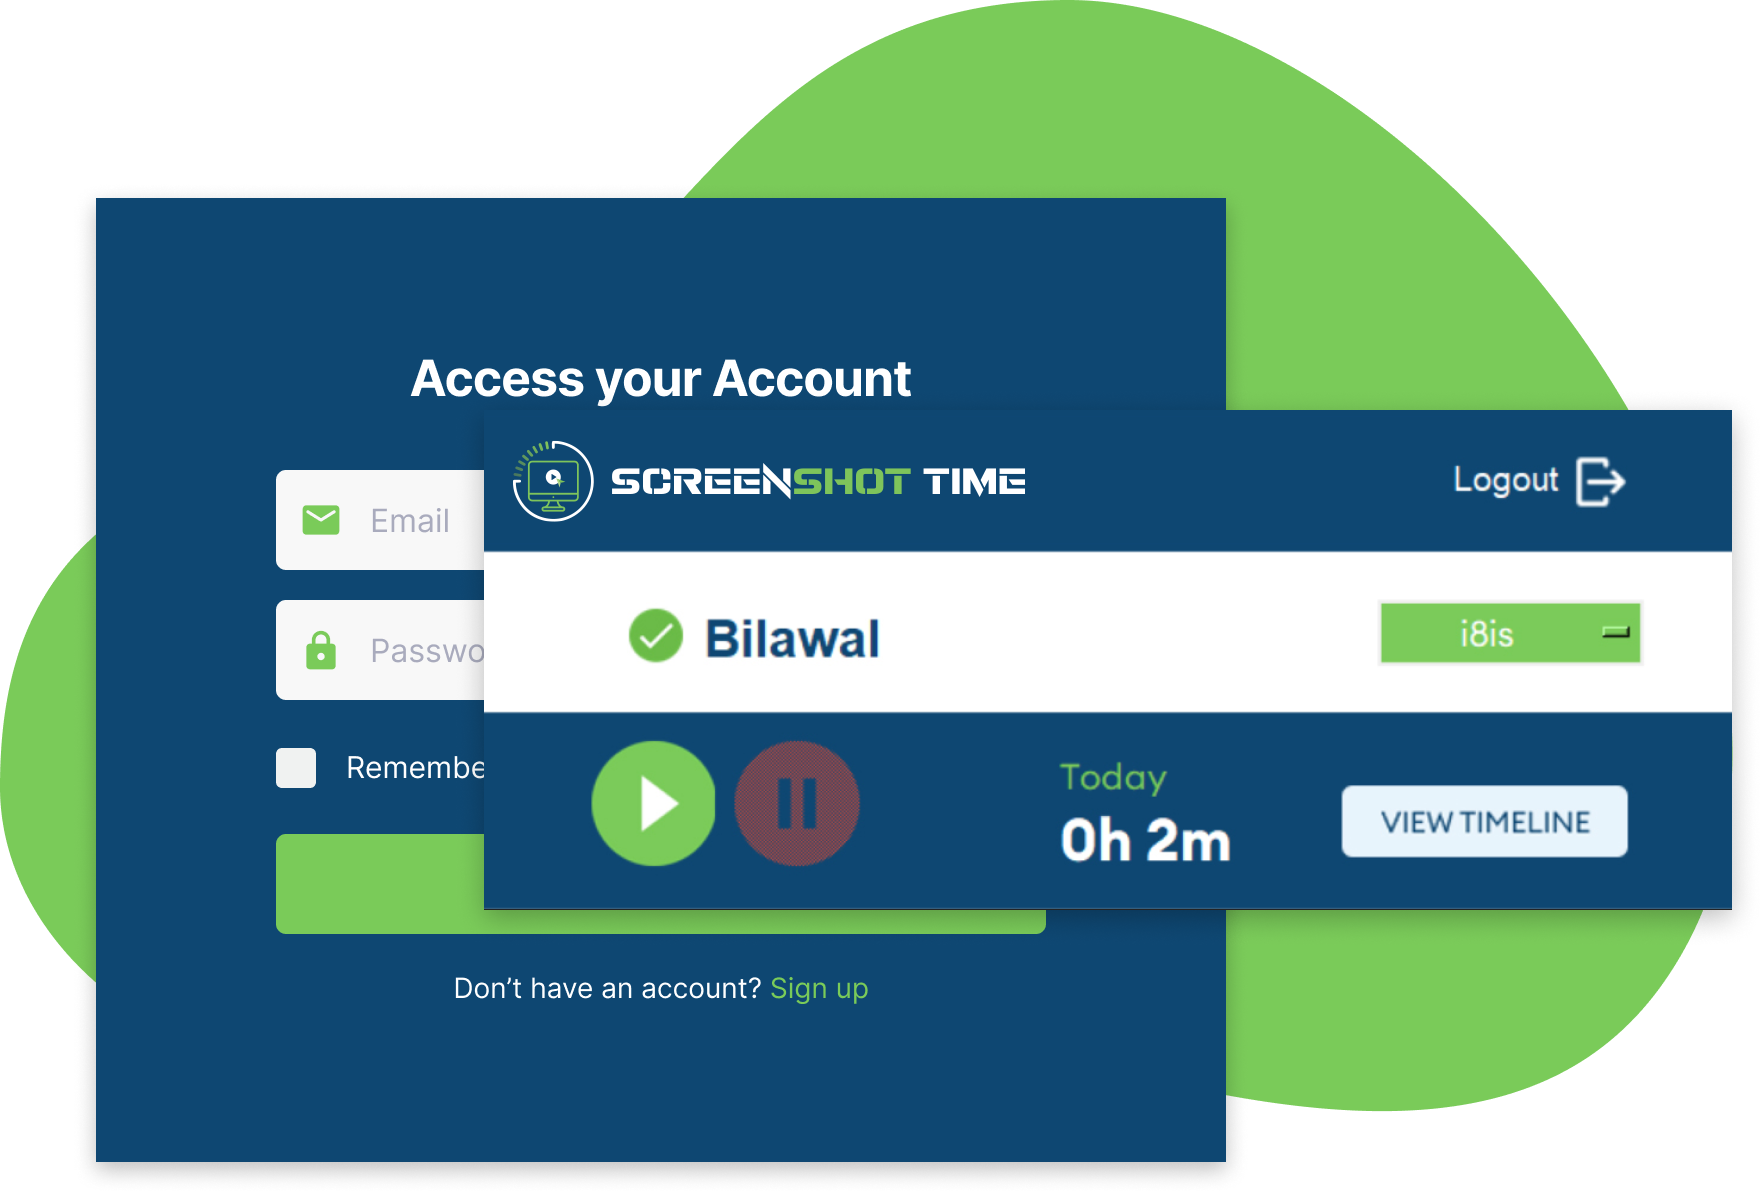
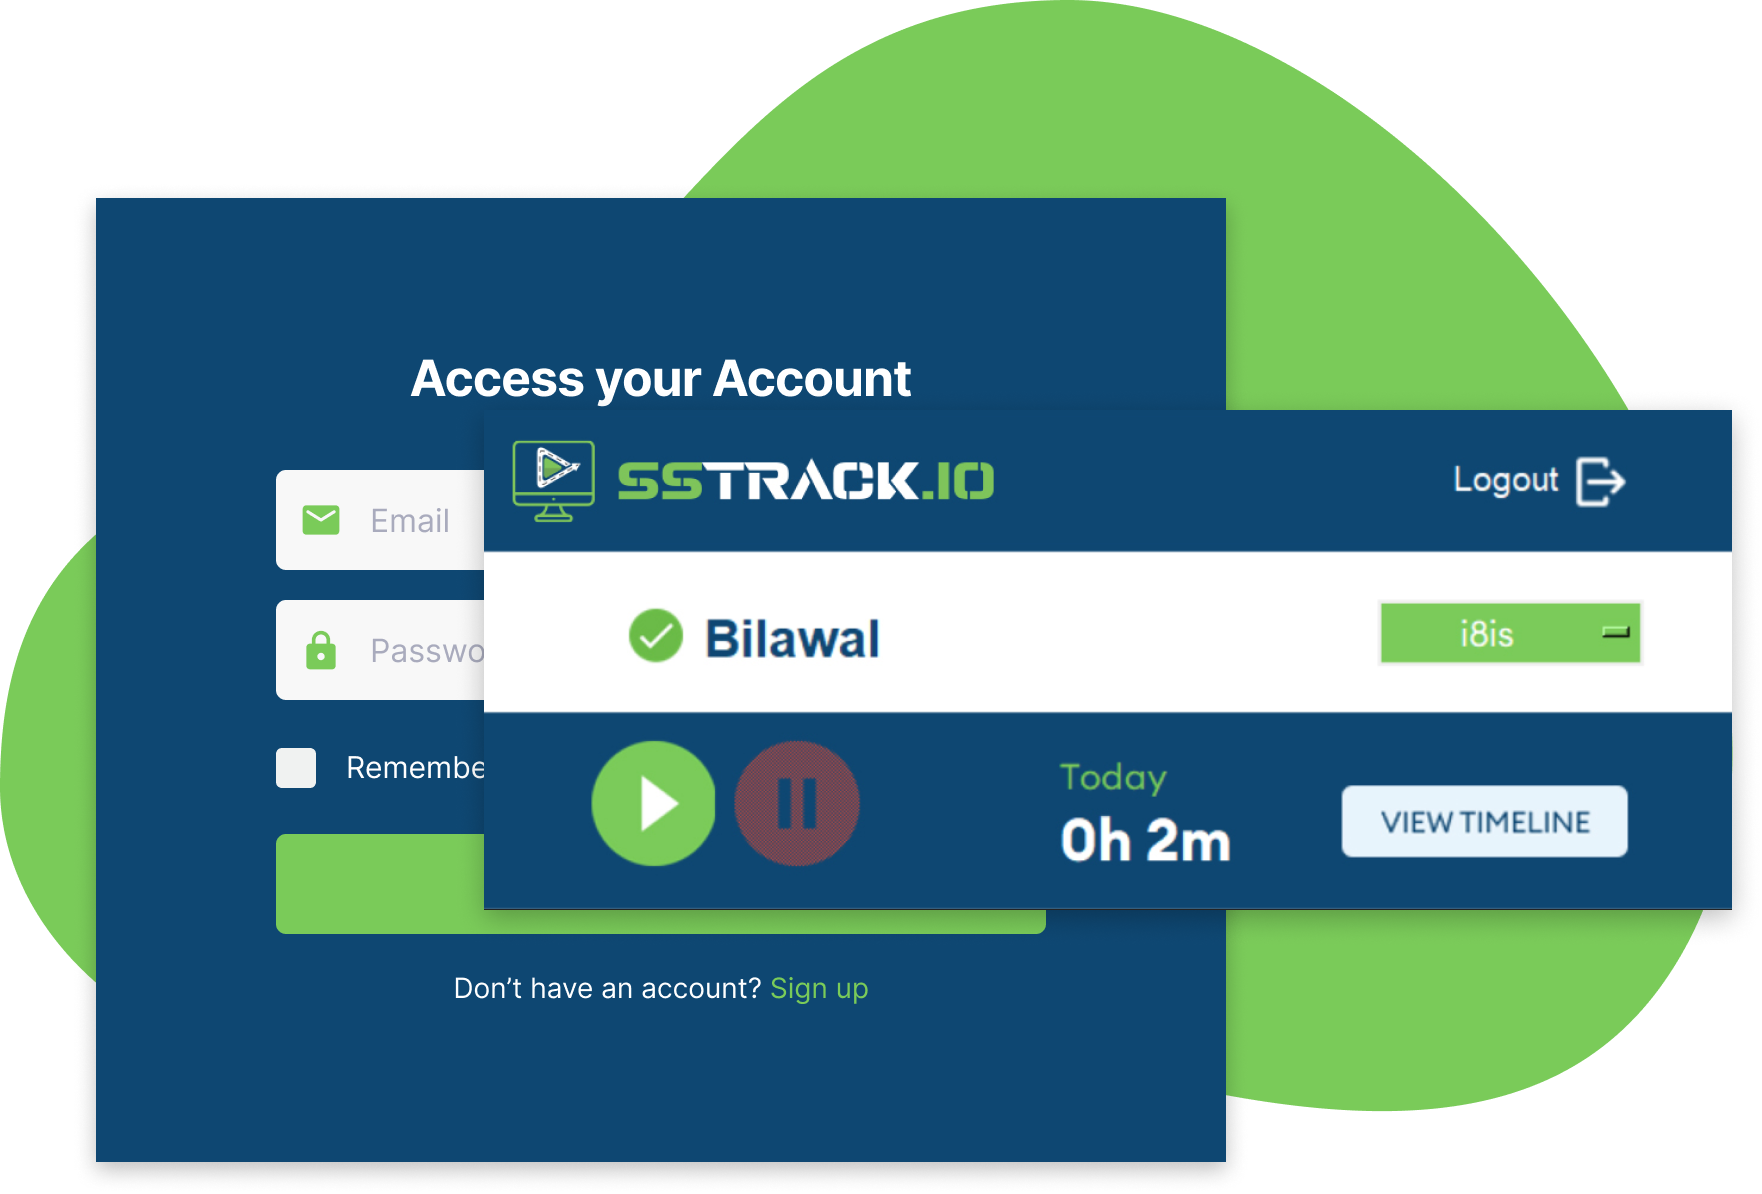
content

Changed region(s): [[0.2809, 0.3719, 0.5931, 0.4338]]

diff --git a/src/screen/home.js b/src/screen/home.js
@@ -174,7 +174,7 @@ function Home() {
               <div className="oliviaDiv">
                 <p className="oliviafont">Olivia Rhye</p>
                 <p className="oliviaGreen">Expect Best</p>
-                <p className="oliviaPera">“scrin.io allows us to look over completed work by remote staff, shows when my staff is working and keeps a backup of work produced. Highly recommend!”</p>
+                <p className="oliviaPera">“ss.track allows us to look over completed work by remote staff, shows when my staff is working and keeps a backup of work produced. Highly recommend!”</p>
               </div>
             </div>
 
@@ -185,7 +185,7 @@ function Home() {
               <div className="oliviaDiv">
                 <p className="oliviafont">Phoenix Baker</p>
                 <p className="oliviaGreen">Engineering Manager</p>
-                <p className="oliviaPera">“scrin.io makes it easy for us to manage the staff at different branch offices of Visas Avenue. The different locations of work is not a hurdle anymore. Thank you scrin.io!”</p>
+                <p className="oliviaPera">“ss.track makes it easy for us to manage the staff at different branch offices of Visas Avenue. The different locations of work is not a hurdle anymore. Thank you ss.track!”</p>
               </div>
             </div>
 
@@ -207,7 +207,7 @@ function Home() {
               <div className="oliviaDiv">
                 <p className="oliviafont">Candice Wu</p>
                 <p className="oliviaGreen">Backend Developer</p>
-                <p className="oliviaPera">“scrin.io is the most efficient way to track hours, manage projects, and most importantly your people! With one scroll through the home page, you'll know what everyone is working on.”</p>
+                <p className="oliviaPera">“ss.track is the most efficient way to track hours, manage projects, and most importantly your people! With one scroll through the home page, you'll know what everyone is working on.”</p>
               </div>
             </div>
 
@@ -218,7 +218,7 @@ function Home() {
               <div className="oliviaDiv">
                 <p className="oliviafont">Natali Craig</p>
                 <p className="oliviaGreen">Product Designer</p>
-                <p className="oliviaPera">“I've been using scrin.io for several years and it has been a great tool. As my company grows, it’s easy to add people and get reports sent to me every week.”</p>
+                <p className="oliviaPera">“I've been using ss.track for several years and it has been a great tool. As my company grows, it’s easy to add people and get reports sent to me every week.”</p>
               </div>
             </div>
 
@@ -229,7 +229,7 @@ function Home() {
               <div className="oliviaDiv">
                 <p className="oliviafont">Drew Cano</p>
                 <p className="oliviaGreen">UX Researcher</p>
-                <p className="oliviaPera">“scrin.io is price competitive and the most reliable tool on the market. It tracks screens, prevents cheating, and doesn’t provide unnecessary features.”</p>
+                <p className="oliviaPera">“ss.track is price competitive and the most reliable tool on the market. It tracks screens, prevents cheating, and doesn’t provide unnecessary features.”</p>
               </div>
             </div>
 
@@ -267,13 +267,13 @@ function Home() {
         </div>
         <div>
           <p className="employetime">Employees track time</p>
-          <p className="managerFont">A manager invites employees to scrin.io. Employees install a lightweight desktop app, select a project they work on and press the Start button. Tracking starts and data is sent to the web in real time until the Stop button is pressed.</p>
+          <p className="managerFont">A manager invites employees to ss-track. Employees install a lightweight desktop app, select a project they work on and press the Start button. Tracking starts and data is sent to the web in real time until the Stop button is pressed.</p>
         </div>
       </section>
       <section className="deanDiv container">
         <div>
           <p className="employetime">Managers see it on the web</p>
-          <p className="managerFont">In their dashboards on scrin.io, both employee and manager will see when the employee was working, how much time they spent on each task, screenshots of their screens taken at random intervals, their activity level, what applications were used, and what websites were open and for how long.</p>
+          <p className="managerFont">In their dashboards on ss-track, both employee and manager will see when the employee was working, how much time they spent on each task, screenshots of their screens taken at random intervals, their activity level, what applications were used, and what websites were open and for how long.</p>
           <button className="startedButton">See demo</button>
         </div>
         <div>
@@ -316,7 +316,7 @@ function Home() {
         <div>
           <img className="wifi" src={innerSetting} />
           <p className="internetFont">Integrate using Web API</p>
-          <p className="internetPera">Connect your existing software to scrin.io via API to retrieve tracked time and notes.</p>
+          <p className="internetPera">Connect your existing software to ss.track via API to retrieve tracked time and notes.</p>
         </div>
       </section>
 
@@ -341,9 +341,9 @@ function Home() {
 
               <div style={{ display: "flex", alignItems: 'center', justifyContent: "space-between" }} className="how-it-work-container">
                 <div>
-                  <p className="features-title"> <ImArrowUpRight2 size={20} /> Simple Access with Log In - <span style={{ fontWeight: "700", color: "#7ACB59", margin: "0" }}>SCREENSHOTTIME.COM</span> <TbSquareRoundedArrowRightFilled size={50} color="#7ACB59" /> </p>
+                  <p className="features-title"> <ImArrowUpRight2 size={20} /> Simple Access with Log In - <span style={{ fontWeight: "700", color: "#7ACB59", margin: "0" }}>SSTRACKER.COM</span> <TbSquareRoundedArrowRightFilled size={50} color="#7ACB59" /> </p>
                   <p className="features-working">
-                    Employees just need to install the SCREENSHOTTIME.COM app on their computer. After logging in, they can click "Start" to begin tracking time and taking screenshots for their tasks. The app automatically sends this info to our website.
+                    Employees just need to install the SSTRACKER.COM app on their computer. After logging in, they can click "Start" to begin tracking time and taking screenshots for their tasks. The app automatically sends this info to our website.
                   </p>
                 </div>
                 <div>
@@ -353,7 +353,7 @@ function Home() {
 
               <div style={{ display: "flex", alignItems: 'center', justifyContent: "space-between" }} className="how-it-work-container">
                 <div>
-                  <p className="features-title"> <ImArrowUpRight2 size={20} /> Effortless Time Tracking - <span style={{ fontWeight: "700", color: "#7ACB59", margin: "0" }}>SCREENSHOTTIME.COM</span> <TbSquareRoundedArrowRightFilled size={50} color="#7ACB59" /> </p>
+                  <p className="features-title"> <ImArrowUpRight2 size={20} /> Effortless Time Tracking - <span style={{ fontWeight: "700", color: "#7ACB59", margin: "0" }}>SSTRACKER.COM</span> <TbSquareRoundedArrowRightFilled size={50} color="#7ACB59" /> </p>
                   <p className="features-working">
                     Our app records work hours and takes screenshots in the background. It does this randomly and stops when the user clicks "Stop." This feature is great for keeping tabs on in-office employees without being sneaky. Employees always know the app is running.
                   </p>
@@ -365,9 +365,9 @@ function Home() {
 
               <div style={{ display: "flex", alignItems: 'center', justifyContent: "space-between" }} className="how-it-work-container">
                 <div>
-                  <p className="features-title"> <ImArrowUpRight2 size={20} /> Clear View - <span style={{ fontWeight: "700", color: "#7ACB59", margin: "0" }}>SCREENSHOTTIME.COM</span> <TbSquareRoundedArrowRightFilled size={50} color="#7ACB59" /> </p>
+                  <p className="features-title"> <ImArrowUpRight2 size={20} /> Clear View - <span style={{ fontWeight: "700", color: "#7ACB59", margin: "0" }}>SSTRACKER.COM</span> <TbSquareRoundedArrowRightFilled size={50} color="#7ACB59" /> </p>
                   <p className="features-working">
-                    Our app sends time and screenshot info to our website, so admins can see what's happening in real-time. Admins don't need to install anything else; they can check everything online on SCREENSHOTTIME.COM. The dashboard shows how long employees worked, who's active now, and the latest screenshots.
+                    Our app sends time and screenshot info to our website, so admins can see what's happening in real-time. Admins don't need to install anything else; they can check everything online on SSTRACKER.COM. The dashboard shows how long employees worked, who's active now, and the latest screenshots.
                   </p>
                 </div>
                 <div>
@@ -377,7 +377,7 @@ function Home() {
 
               <div style={{ display: "flex", alignItems: 'center', justifyContent: "space-between" }} className="how-it-work-container">
                 <div>
-                  <p className="features-title"> <ImArrowUpRight2 size={20} /> Detailed Timeline - <span style={{ fontWeight: "700", color: "#7ACB59", margin: "0" }}>SCREENSHOTTIME.COM</span> <TbSquareRoundedArrowRightFilled size={50} color="#7ACB59" /> </p>
+                  <p className="features-title"> <ImArrowUpRight2 size={20} /> Detailed Timeline - <span style={{ fontWeight: "700", color: "#7ACB59", margin: "0" }}>SSTRACKER.COM</span> <TbSquareRoundedArrowRightFilled size={50} color="#7ACB59" /> </p>
                   <p className="features-working">
                     The employee timeline gives a detailed view: time and money spent on each task, how active the user was, which apps were used, and visited websites. It also includes screenshots taken randomly (up to 30 per hour) throughout the day. This gives a complete picture of the employee's day.
                   </p>
@@ -399,7 +399,7 @@ function Home() {
             <div className="firstFormPart">
               <h3 className="contactUs">Contact us</h3>
               <p className="query">For any questions or feedback please feel free to contact us using
-                the form below, or email us at <span style={{ color: "#7ACB59" }}>info@screenshottime.com</span></p>
+                the form below, or email us at <span style={{ color: "#7ACB59" }}>info@ss-tracker.com</span></p>
             </div>
             <form className="fullForm">
               <div>
@@ -473,7 +473,7 @@ function Home() {
               }}>
                 <IoMdMail color="#09A144" size={20} />
               </div>
-              <p style={{ margin: "0", fontWeight: '600' }}>info@screenshottime.com</p>
+              <p style={{ margin: "0", fontWeight: '600' }}>info@ss-tracker.com</p>
             </div>
           </div>
           <div>

diff --git a/src/screen/savedReport.js b/src/screen/savedReport.js
@@ -44,7 +44,7 @@ function SavedReport() {
                                 <div className="reportsDiv">
                                     <div>Weekly Report</div>
                                     <div className="reportImageDiv">
-                                        <p>https://scrin.io/r/96e0b4</p>
+                                        <p>https://ss.track/r/96e0b4</p>
                                         <div><img src={copy} /></div>
                                     </div>
                                 </div>
@@ -66,7 +66,7 @@ function SavedReport() {
                                 <div className="reportsDiv">
                                     <div>Weekly Report</div>
                                     <div className="reportImageDiv">
-                                        <p>https://scrin.io/r/96e0b4</p>
+                                        <p>https://ss.track/r/96e0b4</p>
                                         <div><img src={copy} /></div>
                                     </div>
                                 </div>
@@ -88,7 +88,7 @@ function SavedReport() {
                                 <div className="reportsDiv">
                                     <div>Weekly Report</div>
                                     <div className="reportImageDiv">
-                                        <p>https://scrin.io/r/96e0b4</p>
+                                        <p>https://ss.track/r/96e0b4</p>
                                         <div><img src={copy} /></div>
                                     </div>
                                 </div>

diff --git a/src/screen/component/footer.js b/src/screen/component/footer.js
@@ -28,7 +28,7 @@ function Footer() {
                     {/* <p>Privacy</p> */}
                 </div>
                 <div>
-                    <p className="text-white fs-8 mb-1">info@screenshottime.com</p>
+                    <p className="text-white fs-8 mb-1">info@ss-tracker.com</p>
                     <div className="footerSocialMedia">
                         <img src={linkedin} alt="LinkdinIcon.png" />
                         <img src={facebook} alt="FacebookIcon.png" />

diff --git a/public/index.html b/public/index.html
@@ -10,7 +10,7 @@
   <link rel="apple-touch-icon" href="%PUBLIC_URL%/logo192.png" />
   <link rel="manifest" href="%PUBLIC_URL%/manifest.json" />
   <link href="https://fonts.cdnfonts.com/css/euclid-circular-a" rel="stylesheet">
-  <title>SS Time</title>
+  <title>SS Track</title>
 </head>
 <!-- hello  -->
 <body>

diff --git a/src/screen/component/header.js b/src/screen/component/header.js
@@ -1,5 +1,5 @@
 import React from "react";
-import logo from '../../images/popHeadLogo.png';
+import logo from '../../images/ss-track-logo.svg';
 import { useNavigate } from "react-router-dom";
 import line from '../../images/line.webp';
 
